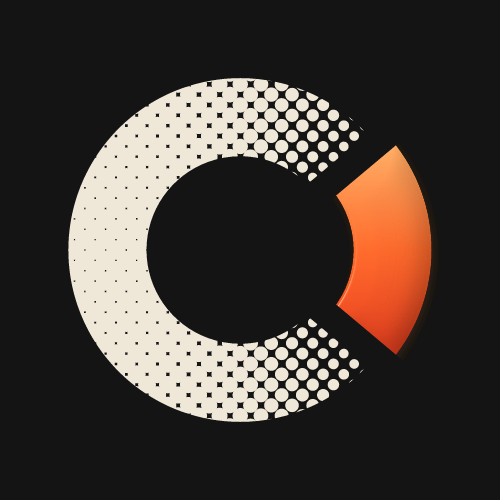
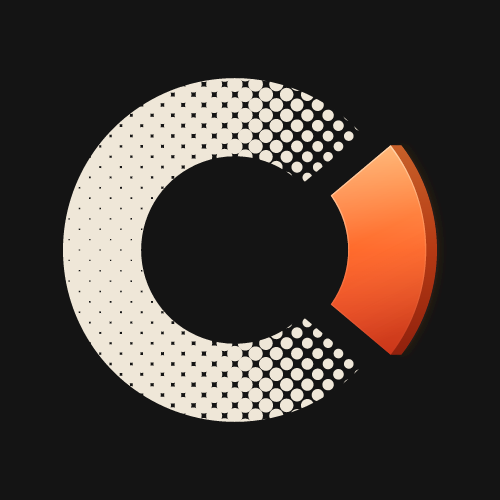
Final mark: the piece is a solid slab with depth, lit from one direction

diff --git a/brand/README.md b/brand/README.md
@@ -1,7 +1,7 @@
 # Curate Technologies mark
 
 A C drawn in halftone dots, solid at its back and thinning toward both tips, with the piece that closes
-it cut out and slid straight out, rendered in a vermilion-to-apricot gradient with light and depth. The
+it cut out and slid straight out, rendered as a solid vermilion-to-apricot slab with real depth on its outer edge. The
 flat dots are the raw material; the lit piece is the one that got chosen. The C and the piece share one
 center and the same radii, and both cuts are the same width.
 
